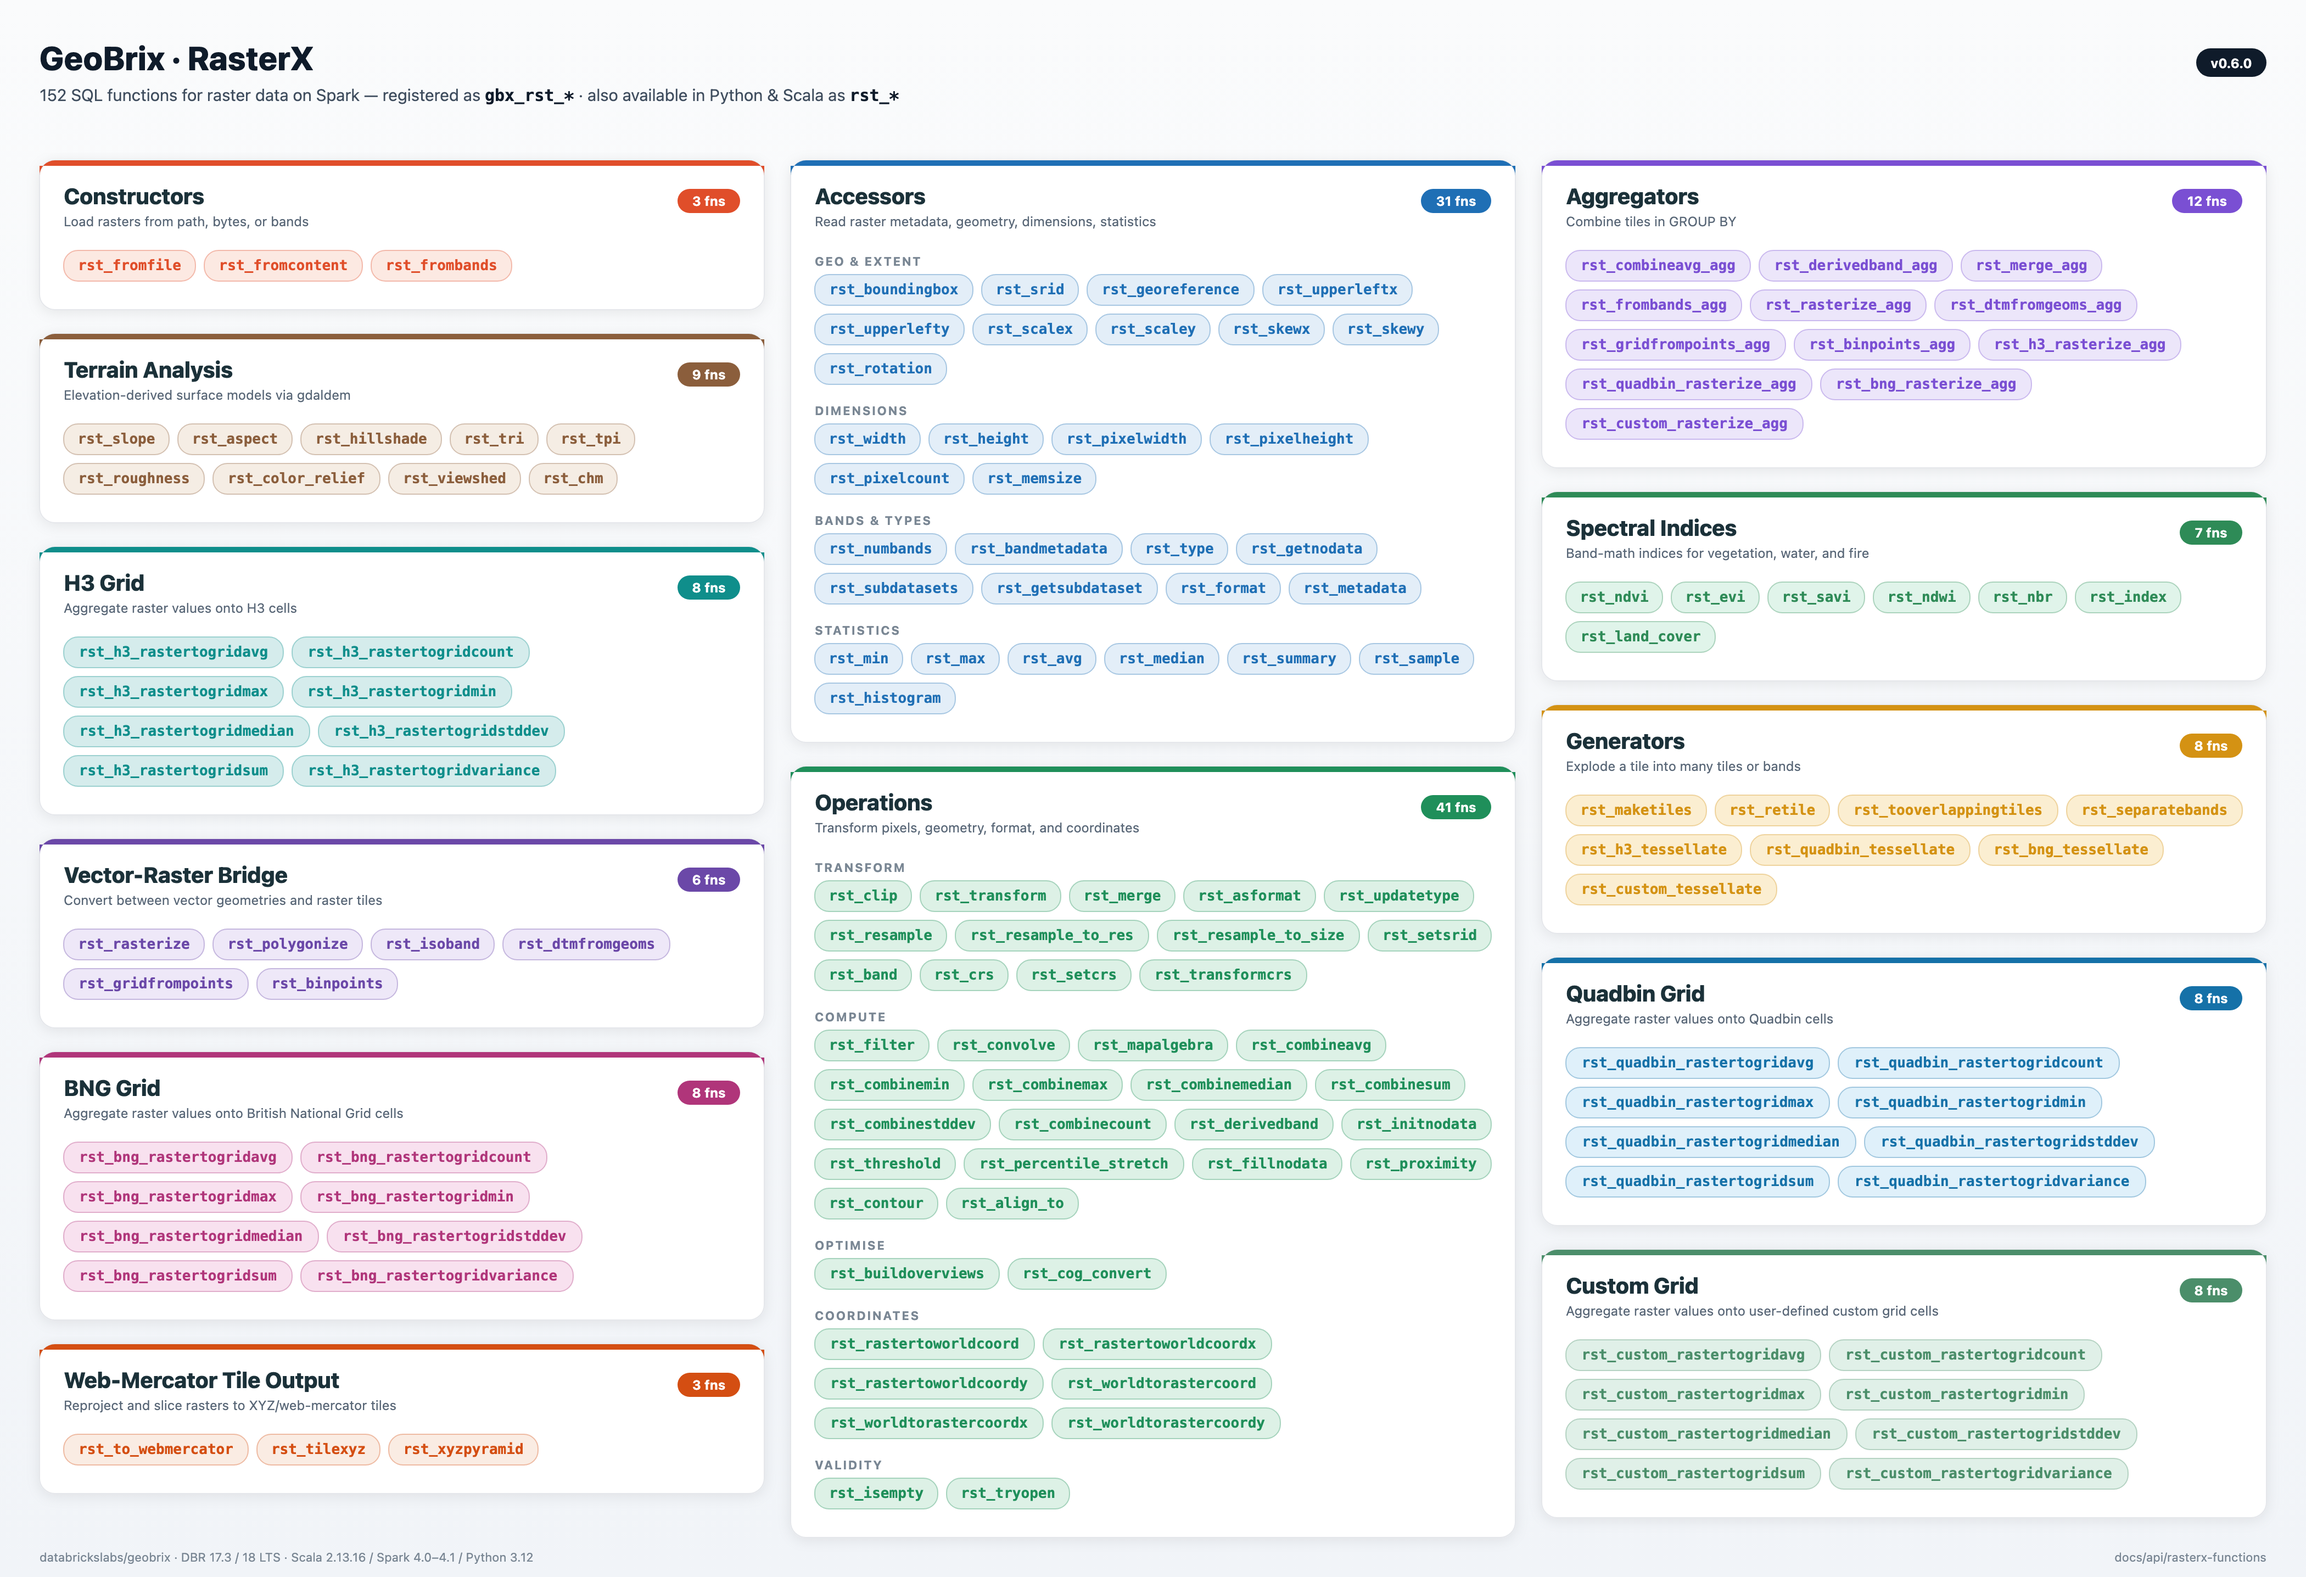
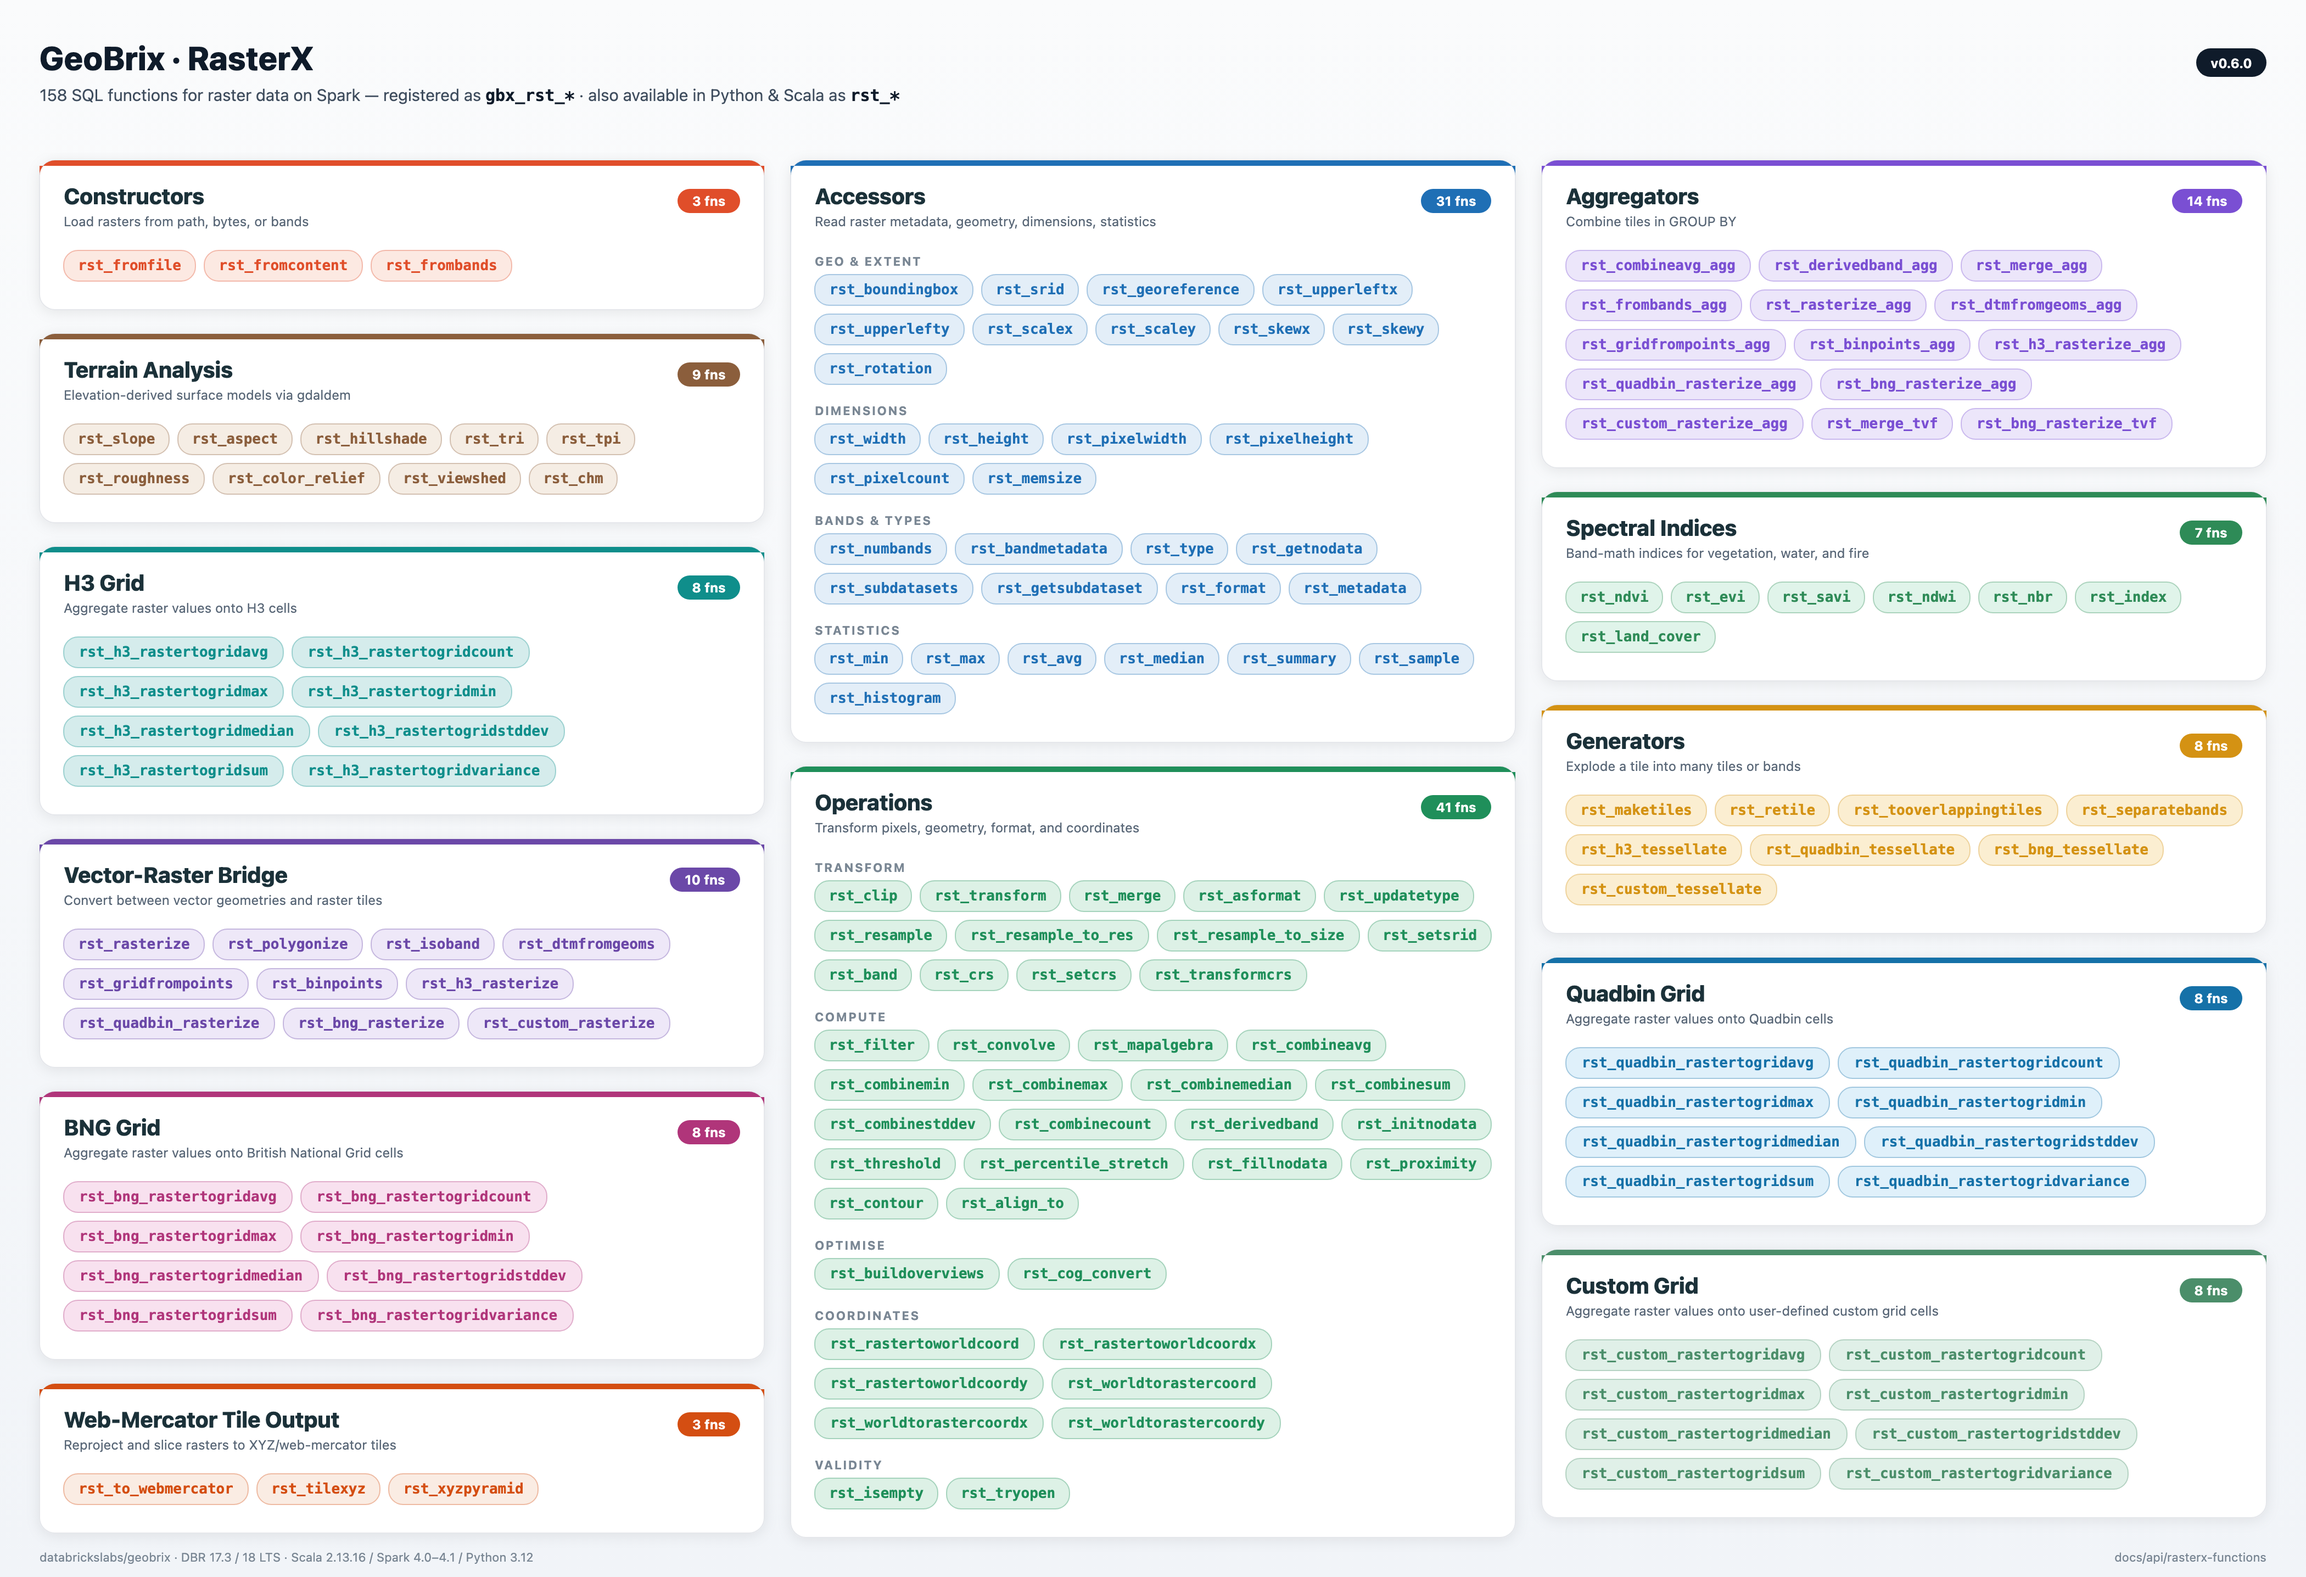
docs(rasterx): add the new rasterize functions to the diagram
The registered set grew by six functions: the four cell-array rasterize
twins and the merge and BNG rasterize table functions. The diagram check
failed because none had a pill. The twins sit beside rst_rasterize in the
vector-raster bridge, the table functions with the aggregators. The
count strings, the SVGs, the PNGs and the intro page's totals now read 158.

Changed region(s): [[0.0312, 0.6198, 0.3431, 0.9607], [0.7798, 0.2479, 0.9669, 0.2789]]

diff --git a/resources/images/generators/rasterx-function-categories.py b/resources/images/generators/rasterx-function-categories.py
@@ -28,7 +28,7 @@ Rasterize landscape PNG (for slides / 16:9 decks):
 from dataclasses import dataclass, field
 from textwrap import dedent
 
-# --- Data: 152 functions, organized by category --------------------------------
+# --- Data: 158 functions, organized by category --------------------------------
 
 @dataclass
 class Section:
@@ -89,6 +89,7 @@ CARDS_LEFT = [
             "rst_h3_rasterize_agg",
             "rst_quadbin_rasterize_agg", "rst_bng_rasterize_agg",
             "rst_custom_rasterize_agg",
+            "rst_merge_tvf", "rst_bng_rasterize_tvf",
         ],
     ),
     Card(
@@ -173,6 +174,8 @@ CARDS_RIGHT = [
         fns=[
             "rst_rasterize", "rst_polygonize", "rst_isoband",
             "rst_dtmfromgeoms", "rst_gridfrompoints", "rst_binpoints",
+            "rst_h3_rasterize", "rst_quadbin_rasterize", "rst_bng_rasterize",
+            "rst_custom_rasterize",
         ],
     ),
     Card(
@@ -407,7 +410,7 @@ def render():
     )
     parts.append(
         f'<text x="{PAD}" y="{PAD + 56}" font-size="15" fill="#3F4D5E">'
-        f'152 SQL functions for raster data on Spark &#8212; registered as '
+        f'158 SQL functions for raster data on Spark &#8212; registered as '
         f'<tspan font-family="ui-monospace, SFMono-Regular, Menlo, monospace" '
         f'font-weight="700" fill="#0F1B2A">gbx_rst_*</tspan>'
         f' &#183; also available in Python &amp; Scala as '
@@ -516,7 +519,7 @@ def render_landscape():
     )
     parts.append(
         f'<text x="{PAD}" y="{PAD + 56}" font-size="15" fill="#3F4D5E">'
-        f'152 SQL functions for raster data on Spark &#8212; registered as '
+        f'158 SQL functions for raster data on Spark &#8212; registered as '
         f'<tspan font-family="ui-monospace, SFMono-Regular, Menlo, monospace" '
         f'font-weight="700" fill="#0F1B2A">gbx_rst_*</tspan>'
         f' &#183; also available in Python &amp; Scala as '
